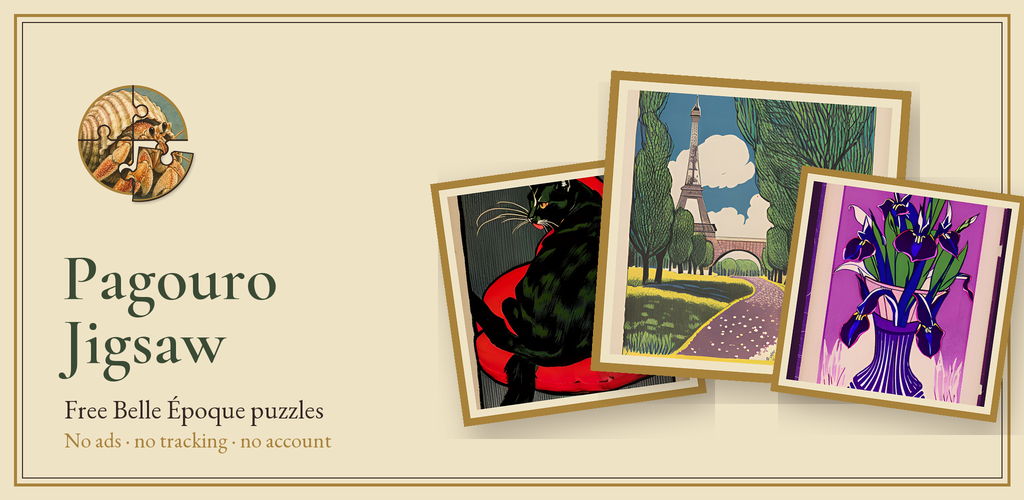
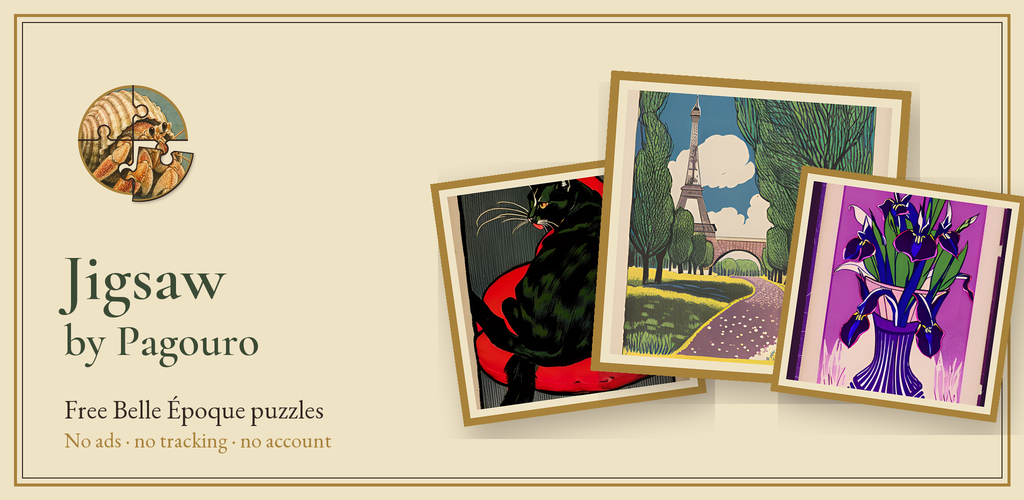
0.2.6 (code 17): renamed Jigsaw by Pagouro (Eric: the launcher cut 'Pagouro Jigsaw' to 'Pagouro J...')
Launcher label, About card, panels, listing, feature graphic and privacy page. Package com.pagouro.jigsaw
unchanged. Label read back from the installed APK; installed over 0.2.5 on Eric's Pixel.

Claude-Session: https://claude.ai/code/session_01QaifHY8gJmBrSekPjrwwpR

Changed region(s): [[0.0625, 0.51, 0.2812, 0.78]]

diff --git a/store/jigsaw-privacy.html b/store/jigsaw-privacy.html
@@ -3,8 +3,8 @@
 <head>
 <meta charset="utf-8">
 <meta name="viewport" content="width=device-width, initial-scale=1">
-<title>Pagouro Jigsaw: Privacy</title>
-<meta name="description" content="Pagouro Jigsaw collects nothing. No ads, no tracking, no account.">
+<title>Jigsaw by Pagouro: Privacy</title>
+<meta name="description" content="Jigsaw by Pagouro collects nothing. No ads, no tracking, no account.">
 <link rel="icon" href="/favicon.ico" sizes="any">
 <link rel="icon" type="image/png" sizes="32x32" href="/favicon-32.png">
 <link rel="apple-touch-icon" sizes="180x180" href="/apple-touch-icon.png">
@@ -29,15 +29,15 @@
 <header>
   <img src="/pagouro_mark_512.jpg" alt="The Pagouro hermit crab">
   <div>
-    <h1>Pagouro Jigsaw: Privacy</h1>
+    <h1>Jigsaw by Pagouro: Privacy</h1>
     <p class="tag">It collects nothing. That is the whole policy.</p>
   </div>
 </header>
 
-<p>Pagouro Jigsaw is a free jigsaw puzzle game for Android, made by Pagouro. It has no ads, no tracking and no account.</p>
+<p>Jigsaw by Pagouro is a free jigsaw puzzle game for Android, made by Pagouro. It has no ads, no tracking and no account.</p>
 
 <h2>What the app collects</h2>
-<p>Nothing. Pagouro Jigsaw does not collect, send, sell or share any personal or usage data. It does not ask for the
+<p>Nothing. Jigsaw by Pagouro does not collect, send, sell or share any personal or usage data. It does not ask for the
 internet permission, so it cannot send anything anywhere, and it contains no advertising, analytics or crash-reporting
 code.</p>
 

diff --git a/tools_src/make_feature_graphic.py b/tools_src/make_feature_graphic.py
@@ -62,8 +62,8 @@ ImageDraw.Draw(mask).ellipse((0, 0, icon.width - 1, icon.height - 1), fill=255)
 icon.putalpha(mask)
 canvas.alpha_composite(icon, (62 * S, 70 * S))
 d = ImageDraw.Draw(canvas)
-d.text((62 * S, 238 * S), "Pagouro", font=font("CormorantGaramond.ttf", 66, 600), fill=GREEN)
-d.text((62 * S, 302 * S), "Jigsaw", font=font("CormorantGaramond.ttf", 66, 600), fill=GREEN)
+d.text((62 * S, 238 * S), "Jigsaw", font=font("CormorantGaramond.ttf", 66, 600), fill=GREEN)
+d.text((64 * S, 314 * S), "by Pagouro", font=font("CormorantGaramond.ttf", 44, 600), fill=GREEN)
 d.text((64 * S, 392 * S), "Free Belle Époque puzzles", font=font("EBGaramond.ttf", 26), fill=INK)
 d.text((64 * S, 426 * S), "No ads · no tracking · no account", font=font("EBGaramond.ttf", 21), fill=GOLD)
 out = canvas.convert("RGB").resize((1024, 500), Image.LANCZOS)

diff --git a/store/PLAY_STORE.md b/store/PLAY_STORE.md
@@ -1,6 +1,6 @@
-# Pagouro Jigsaw on Google Play: everything to paste
+# Jigsaw by Pagouro on Google Play: everything to paste
 
-Prepared 2026-10-04 for Eric's Play Console application. Facts below are measured from the build (0.2.5) or the
+Prepared 2026-10-04 for Eric's Play Console application. Facts below are measured from the build (0.2.6) or the
 self-test, not remembered. Fill the two blanks marked ✱.
 
 ## The build
@@ -18,7 +18,8 @@ self-test, not remembered. Fill the two blanks marked ✱.
 
 ## Store listing
 
-**App name** (30 max): `Pagouro Jigsaw`
+**App name** (30 max): `Jigsaw by Pagouro` (renamed 2026-10-05 from Pagouro Jigsaw: phone launchers show about 10
+characters, and 'Pagouro J…' hid what the app is; 'Jigsaw by…' does not)
 
 **Short description** (80 max, this is 70):
 `Relaxing Belle Époque jigsaws. No ads, nothing to buy, nothing locked.`
@@ -65,12 +66,12 @@ train ourselves, are documented at pagouro.com. The 160 pictures in the game wer
 1,400 drawings.
 
 WHY IT'S FREE
-Pagouro Jigsaw is made by Pagouro, a small project building free, open AI that runs on your own computer.
+It is made by Pagouro, a small project building free, open AI that runs on your own computer.
 Every picture and the music are CC0: yours to keep.
 
 The game works fully offline and asks for no permissions.
 
-With thanks to Summer Engine (summerengine.com), the AI game engine that got us making games. Pagouro Jigsaw
+With thanks to Summer Engine (summerengine.com), the AI game engine that got us making games. The game
 itself is built with Godot, the open-source engine Summer is built on.
 ```
 
@@ -86,7 +87,8 @@ published to `ericrwade/pagouro-site` with Eric's OK).
 longest Play allows; staged by `-- --shots` at 525×1050 and scaled up: fresh puzzle with tray, halfway, Help card,
 finished, menu). Real captures from the Pixel can replace them later; its screen is 2.22:1, so crop to 2:1.
 
-**Checked:** the release bundle (0.2.5, code 16, sha256 42b2904c…, release `play-0.2.5`) was turned into device APKs with bundletool 1.18.3, installed on Eric's
+**Checked:** the release bundle (0.2.6, code 17, sha256 fdb27387…, release `play-0.2.6`; launcher label read back from
+the installed APK as 'Jigsaw by Pagouro') was turned into device APKs with bundletool 1.18.3, installed on Eric's
 Pixel 11 Pro XL after removing the USB test build (Eric's go-ahead), and runs: masks bake, daily puzzle draws, no errors.
 
 ## App content forms
@@ -128,3 +130,5 @@ Pixel 11 Pro XL after removing the USB test build (Eric's go-ahead), and runs: m
 - 2026-10-05: listing text revised from the review research (`MARKET_RESEARCH_2026-10-05.md`): exact no-ads line,
   all pictures free, no data, no timer, AI stated with how it was made.
 - 2026-10-05: Eric's identity and phone VERIFIED by Play Console. Next: Create app.
+- 2026-10-05: renamed to Jigsaw by Pagouro (Eric), 0.2.6 / code 17. 'AI' kept out of the name on purpose (Eric agreed):
+  the description states it plainly instead.

diff --git a/docs/RESUME_HERE.md b/docs/RESUME_HERE.md
@@ -1,4 +1,4 @@
-# Resume here — Pagouro Jigsaw on Google Play
+# Resume here — Jigsaw by Pagouro on Google Play
 
 Saved 2026-10-04, evening, at Eric's request before an aside ("a fork of this conversation"). Everything below is
 committed and pushed (`ericrwade/pagouro-play`, private, main). Read this, then `store/PLAY_STORE.md`, then the last two
@@ -36,6 +36,8 @@ entries of `docs/BUILD_LOG.md`. `docs/HANDOFF.md` has the toolchain and guardrai
   lettering-free picks, faces checked by eye; 001, 097, 107, 143 pipe, 164, 171 bayonet left out) and 89 from
   **jigsaw batch 1** (`PAGOURO_BE/showcase/jigsaw_b1/README.md`: 1,272 drawn on a RunPod A100 for ~$1.40, judged with
   a strict faces check, every face checked by eye). Files `jigsaw/art/be/b1-NNN-slug.jpg`.
+- **0.2.6 / code 17 (2026-10-05): renamed Jigsaw by Pagouro** (launcher showed 'Pagouro J…'); release `play-0.2.6`,
+  AAB sha256 fdb27387…, installed on Eric's Pixel over 0.2.5 (same key, saves kept). Package name unchanged.
 - **Rebuilt 2026-10-05 as 0.2.5 / code 16** with all 160 (pictures lossy 0.9 like the first 30; lossless had made the bundle 178 MB, now 82 MB), backed up on private release `play-0.2.5`, installed on Eric's Pixel. (Was: bump to 0.2.5 / code 16 in BOTH presets
   and project.godot). Bundle grows by about 23 MB of pictures.
 - Eric's next ideas: themed **bundles** and, in a later version, a page to choose bundles (download packs would
@@ -46,7 +48,7 @@ entries of `docs/BUILD_LOG.md`. `docs/HANDOFF.md` has the toolchain and guardrai
 
 ## Next, when Eric is verified
 
-1. Play Console → Create app: name `Pagouro Jigsaw`, English (United States), Game, Free, tick both declarations.
+1. Play Console → Create app: name `Jigsaw by Pagouro`, English (United States), Game, Free, tick both declarations.
 2. Store listing: paste from `PLAY_STORE.md`; upload icon, feature graphic, screenshots; category Game › Puzzle;
    contact info@pagouro.com; privacy URL above.
 3. App content forms: answers in `PLAY_STORE.md` (no ads, collects nothing, IARC all "none", audience 13+).

diff --git a/README.md b/README.md
@@ -3,7 +3,7 @@
 Free games sponsored by Pagouro (decision S-4 in `PAGOURO_SALON/docs/DECISIONS.md`). No ads, no tracking, no account, no
 paid unlock: one quiet line says the game is free thanks to Pagouro.
 
-## Pagouro Jigsaw (`jigsaw/`)
+## Jigsaw by Pagouro (`jigsaw/`)
 
 A jigsaw puzzle of Belle Époque posters drawn by [Pagouro BE](https://github.com/ericrwade/pagouro-be), with the
 Pagouro Salon piano loop playing softly underneath. Runs on Windows and Android (a test build; not in any store yet).
@@ -35,7 +35,7 @@ separate program and never touches the Summer Engine editor or its settings.
 PLAY-JIGSAW.bat                                         play it on this PC
 tools\godot\Godot_v4.7.2-stable_win64_console.exe --path jigsaw --audio-driver Dummy --position -4000,-4000 -- --selftest
                                                         build, solve, measure, screenshot, quit, silently and off-screen
-                                                        (screenshots in %APPDATA%\Godot\app_userdata\Pagouro Jigsaw)
+                                                        (screenshots in %APPDATA%\Godot\app_userdata\Jigsaw by Pagouro)
 tools\godot-export\Godot_v4.7.2-stable_win64_console.exe --headless --path jigsaw --export-debug "Android" ../build/pagouro-jigsaw.apk
                                                         the Android test build (see docs/HANDOFF.md for the toolchain)
 ```

diff --git a/docs/HANDOFF.md b/docs/HANDOFF.md
@@ -45,7 +45,7 @@ Bump BOTH `application/config/version` in `jigsaw/project.godot` (shown in About
   (add `--resolution 405x880` for the phone layout). ALWAYS silent and off-screen: a visible run pops onto Eric's
   desktop, plays music and once made him think the game had a 0:01 bug. It prints one SELFTEST line (piece-area spread
   and tab mix for both cuts, neck widths, tray, locking, save/restore identity, Help, hints, solve) and writes
-  screenshots to `%APPDATA%\Godot\app_userdata\Pagouro Jigsaw\`. LOOK at the screenshots: the off-screen finish card and
+  screenshots to `%APPDATA%\Godot\app_userdata\Jigsaw by Pagouro\`. LOOK at the screenshots: the off-screen finish card and
   the invisible Done label were both found only that way. It uses its own progress file, never the player's.
 - **After adding a script with a new `class_name`**: run `--headless --path jigsaw --import` once first.
 - **Android build**: `tools\godot-export\Godot_v4.7.2-stable_win64_console.exe --headless --path jigsaw --export-debug "Android" ../build/pagouro-jigsaw.apk`.
